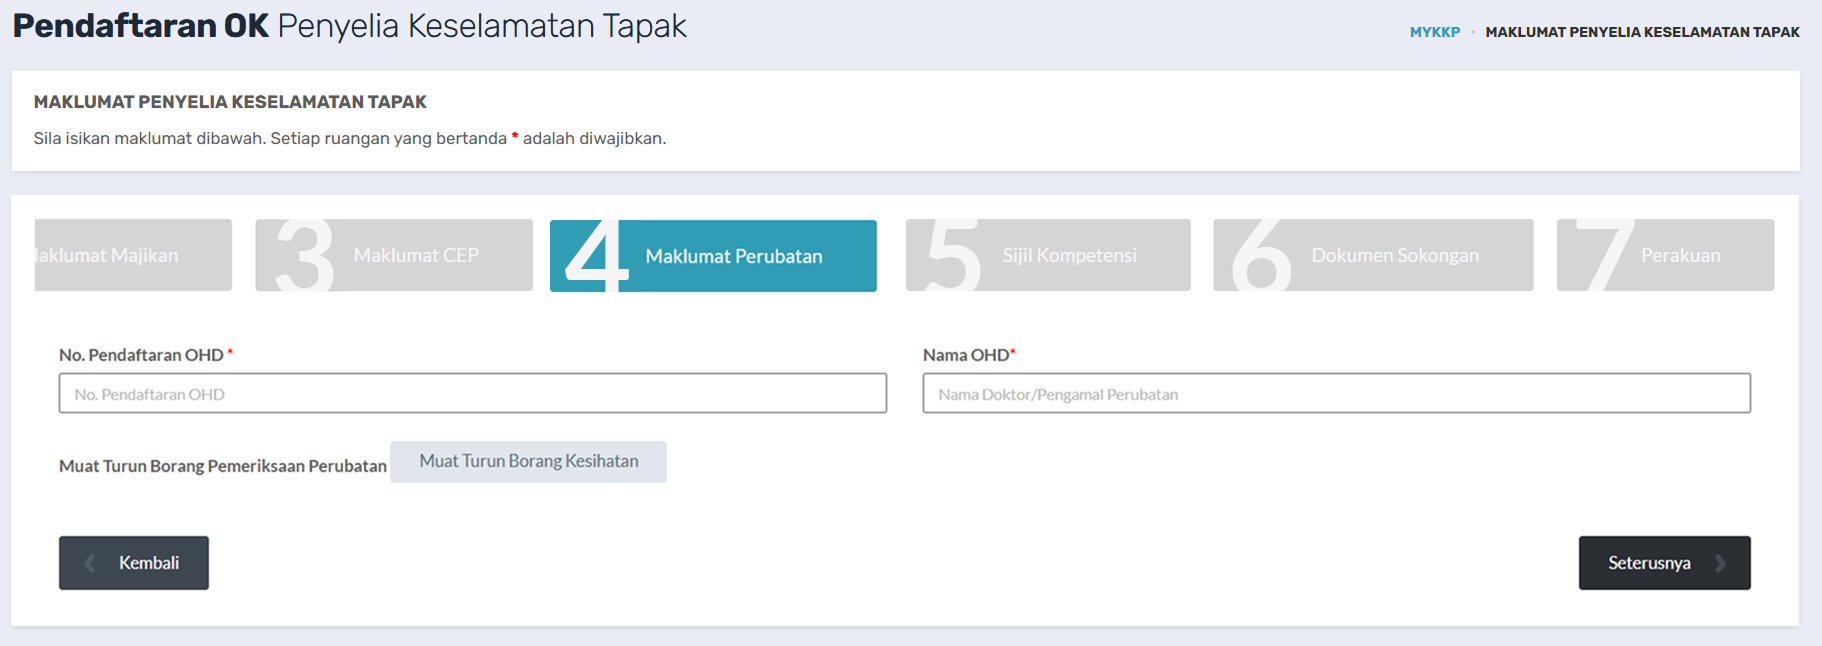
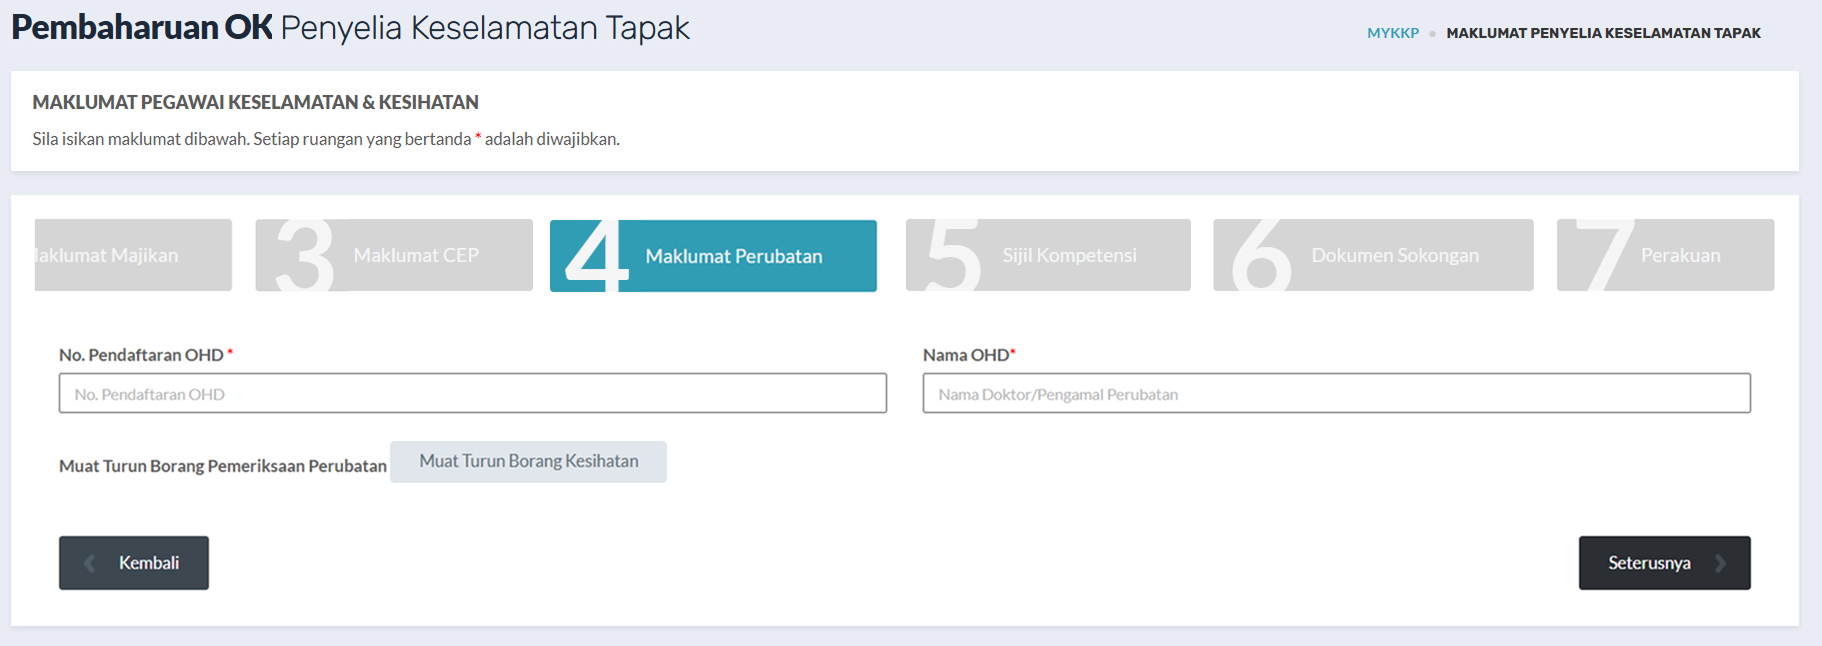
Keselamatan

Changed region(s): [[0.0, 0.1238, 0.3688, 0.2477], [0.0, 0.0, 0.3996, 0.0619], [0.7377, 0.031, 1.0, 0.0619]]

diff --git a/docs/orang-kompeten/keselamatan-tapak/keselamatan-tapak-renewal.md b/docs/orang-kompeten/keselamatan-tapak/keselamatan-tapak-renewal.md
@@ -8,7 +8,7 @@ sidebar_label: 'Pembaharuan'
 import Admonition from '@site/src/components/admonition';
 import React from 'react';
 
-# 📝 Pembaharuan Sijil Pegawai Keselamatan & Kesihatan
+# 📝 Pembaharuan Sijil Penyelia Keselamatan Tapak
 import LoginStep from '../../../src/components/login-step';
 
 <LoginStep 
@@ -31,7 +31,7 @@ import tambahMaklumatOk from '@site/assets/images/orang-kompeten/keselamatan-tap
 
 <div className="step-card">
 
-### Langkah 3: Pengisian Borang Pendaftaran Penyelia Keselamatan Tapak
+### Langkah 3: Pengisian Borang Pembaharuan Penyelia Keselamatan Tapak
 
 {/* Step A. Tab 1: Maklumat Am */}
 

diff --git a/docs/orang-kompeten/keselamatan-tapak/keselamatan-tapak-daftar.md b/docs/orang-kompeten/keselamatan-tapak/keselamatan-tapak-daftar.md
@@ -1,5 +1,5 @@
 ---
-title: PENDAFTARAN PEGAWAI KESELAMATAN & KESIHATAN (SHO)
+title: PENDAFTARAN PENYELIA KESELAMATAN TAPAK (SSS)
 description: Panduan lengkap pendaftaran penyelia keselamatan tapak
 hide_table_of_contents: true
 sidebar_label: 'Pendaftaran'
@@ -20,8 +20,8 @@ import MenuOk from '../../../src/components/menu-ok';
 
 <MenuOk
   stepNumber={2}
-  pageName="Keselamatan & Kesihatan"
-  okType="Keselamatan"
+  pageName="Keselamatan Tapak"
+  okType="Tapak"
   hasDropdown={true}
   moduleName="[SSS] - Penyelia Keselamatan Tapak"
  />

diff --git a/docs/orang-kompeten/kren/kren-menara-renewal.md b/docs/orang-kompeten/kren/kren-menara-renewal.md
@@ -32,7 +32,7 @@ import tambahMaklumatOk from '@site/assets/images/orang-kompeten/kren-menara/pem
 
 <div className="step-card">
 
-### Langkah 3: Pengisian Borang Pendaftaran Operator Kren Menara
+### Langkah 3: Pengisian Borang Pembaharuan Operator Kren Menara
 
 {/* Step A. Tab 1: Maklumat Am */}
 
